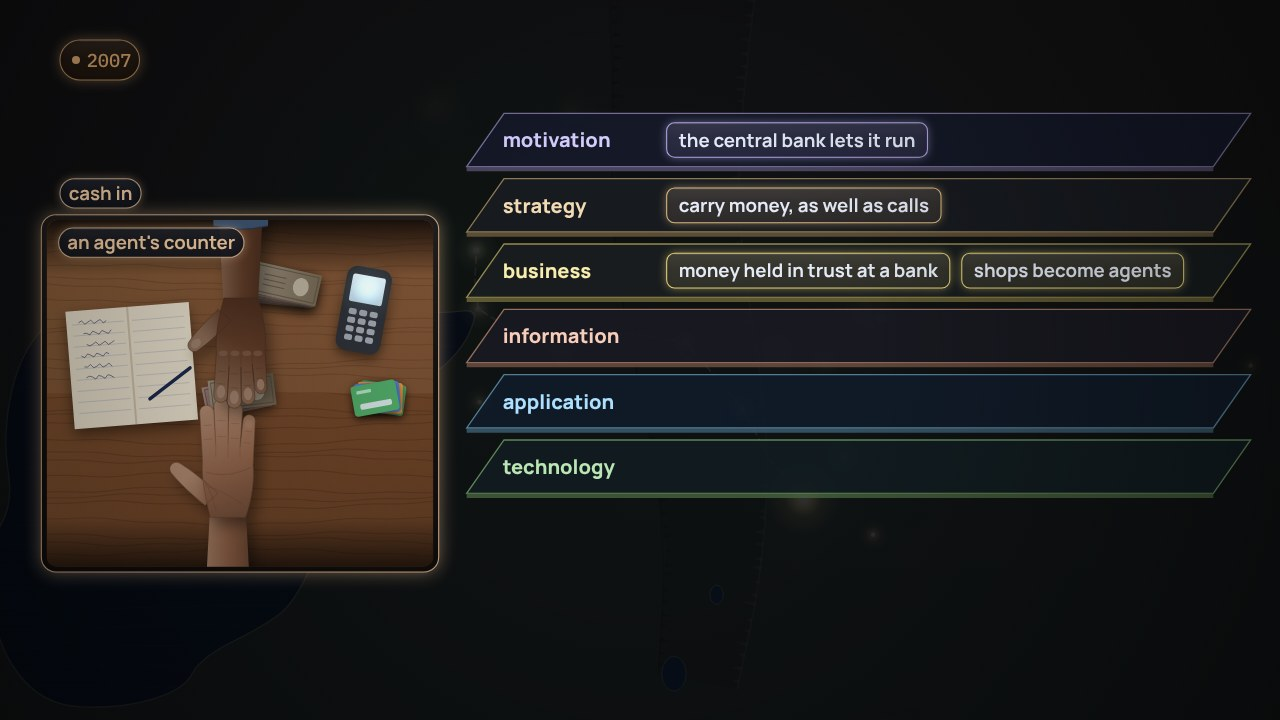
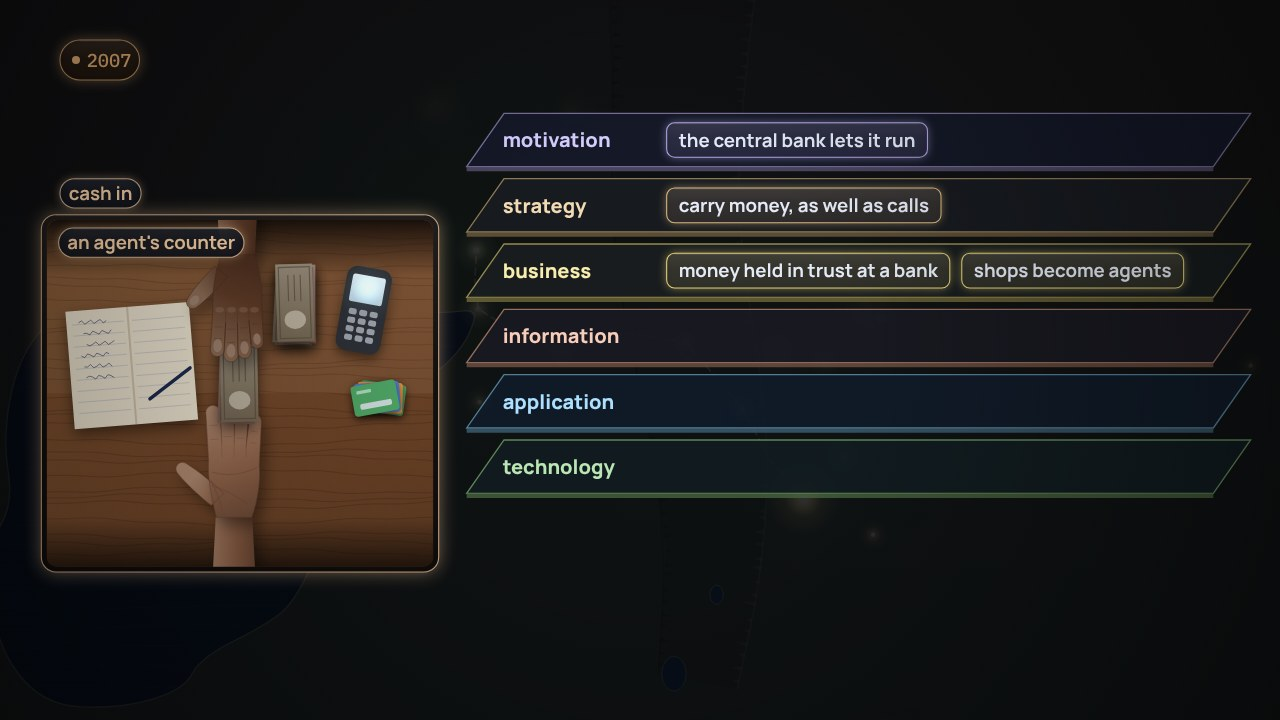
When strategy moves: the notes lie along the hands at the agent's counter
Rodrigo's review: the banknotes at the counter overlapped the hands
unnaturally. They lay across the hands, slid under an open palm and
stuck out on both sides of it. Now they lie along the hands: held out
on the customer's flat fingers, pinched under the agent's fingertips,
and let go over the open palm, whose fingers close over them. The two
hands meet at the notes, not on each other, and the notes change hands
only while both are still. The pile lies lengthways too, two notes
higher after cash in. The poster follows.

PLAYBOOK gains a lesson and a checklist item, and the proposal's
20 October row records the approval and the fix.

Claude-Session: https://claude.ai/code/session_01LTwRStgXVpZjzpS3UVc5Go

Changed region(s): [[0.125, 0.3667, 0.25, 0.7028], [0.1562, 0.7028, 0.2188, 0.7944], [0.1562, 0.3056, 0.2188, 0.3361]]

diff --git a/site/assets/when-strategy-moves/film.js b/site/assets/when-strategy-moves/film.js
@@ -2173,7 +2173,8 @@ function d10_phone(ctx,x,y,w,h,t,o){o=o||{};const a=o.a==null?1:o.a;if(a<=0.01)r
 // A hand, seen from above, its wrist at (0,0) and its fingers pointing up (−y), drawn as a living thing: a palm that widens to the
 // knuckles and four fingers held together in one outline (each with its own length and a rounded tip, a notch where they part), and
 // a thumb, lit from the upper left, with a soft shadow under it. side: 1 or −1 mirrors it (the thumb on the left, or the right);
-// o.palm: palm up, the lighter palm showing; o.curl (0..1) closes the fingers; o.sleeve: the cuff's colour
+// o.palm: palm up, the lighter palm showing; o.curl (0..1) closes the fingers; o.sleeve: the cuff's colour; o.over: only the
+// fingers, from where they bend, drawn again over what the hand holds as they close round it
 function d10_hand(ctx,x,y,an,s,skin,side,o){o=o||{};const a=o.a==null?1:o.a;if(a<=0.01)return;withA(ctx,a,()=>{ctx.save();ctx.translate(x,y);ctx.rotate(an);ctx.scale(s*side,s);
   const palm=!!o.palm,base=palm?mix(skin,[226,170,138],0.22):skin,skL=mix(base,[255,232,206],0.3),skD=mix(base,[24,12,8],0.32),curl=clamp(o.curl||0,0,1),K=-70;
   const lit=(x0,y0,x1,y1)=>{const g=ctx.createLinearGradient(x0,y0,x1,y1);g.addColorStop(0,rgba(skL,1));g.addColorStop(0.55,rgba(base,1));g.addColorStop(1,rgba(skD,1));return g;};
@@ -2188,26 +2189,29 @@ function d10_hand(ctx,x,y,an,s,skin,side,o){o=o||{};const a=o.a==null?1:o.a;if(a
     ctx.bezierCurveTo(9.5,-TL*0.8,11.5,-TL*0.4,10.5,8);ctx.closePath();ctx.restore();};
   // the forearm, and the cuff of a sleeve
   const arm=palm?mix(skin,[226,170,138],0.08):skin,aL=mix(arm,[255,232,206],0.26),aD=mix(arm,[24,12,8],0.32),ag=ctx.createLinearGradient(-30,0,30,0);ag.addColorStop(0,rgba(aL,1));ag.addColorStop(0.55,rgba(arm,1));ag.addColorStop(1,rgba(aD,1));
-  ctx.save();ctx.shadowColor="rgba(0,0,0,0.38)";ctx.shadowBlur=14;ctx.shadowOffsetX=6;ctx.shadowOffsetY=8;ctx.fillStyle=ag;ctx.beginPath();ctx.moveTo(-22,0);ctx.bezierCurveTo(-25,60,-29,120,-31,220);ctx.lineTo(31,220);ctx.bezierCurveTo(29,120,25,60,22,0);ctx.closePath();ctx.fill();ctx.restore();
-  if(o.sleeve){ctx.fillStyle=rgba(o.sleeve,1);ctx.beginPath();ctx.moveTo(-34,90);ctx.quadraticCurveTo(0,82,34,90);ctx.lineTo(40,230);ctx.lineTo(-40,230);ctx.closePath();ctx.fill();ctx.strokeStyle=rgba(mix(o.sleeve,[0,0,0],0.35),0.8);ctx.lineWidth=2;ctx.beginPath();ctx.moveTo(-34,90);ctx.quadraticCurveTo(0,82,34,90);ctx.stroke();}
+  if(o.over){ctx.save();shape();ctx.clip();const sg=ctx.createLinearGradient(0,K+5,0,K+19);sg.addColorStop(0,"rgba(20,10,6,0.4)");sg.addColorStop(1,"rgba(20,10,6,0)");ctx.fillStyle=sg;ctx.fillRect(-46,K+3,92,16);ctx.restore();
+    ctx.beginPath();ctx.moveTo(-46,K-100);ctx.lineTo(-46,K+4);ctx.lineTo(-31,K+4);F.forEach((f,i)=>ctx.quadraticCurveTo(f.bx,K+15,i<3?(f.bx+F[i+1].bx)/2:32,K+3));ctx.lineTo(46,K+4);ctx.lineTo(46,K-100);ctx.closePath();ctx.clip();}
+  else{ctx.save();ctx.shadowColor="rgba(0,0,0,0.38)";ctx.shadowBlur=14;ctx.shadowOffsetX=6;ctx.shadowOffsetY=8;ctx.fillStyle=ag;ctx.beginPath();ctx.moveTo(-22,0);ctx.bezierCurveTo(-25,60,-29,120,-31,220);ctx.lineTo(31,220);ctx.bezierCurveTo(29,120,25,60,22,0);ctx.closePath();ctx.fill();ctx.restore();}
+  if(o.sleeve&&!o.over){ctx.fillStyle=rgba(o.sleeve,1);ctx.beginPath();ctx.moveTo(-34,90);ctx.quadraticCurveTo(0,82,34,90);ctx.lineTo(40,230);ctx.lineTo(-40,230);ctx.closePath();ctx.fill();ctx.strokeStyle=rgba(mix(o.sleeve,[0,0,0],0.35),0.8);ctx.lineWidth=2;ctx.beginPath();ctx.moveTo(-34,90);ctx.quadraticCurveTo(0,82,34,90);ctx.stroke();}
   // the thumb under the hand's edge, then the hand, in one outline, with its shadow
-  ctx.save();ctx.shadowColor="rgba(0,0,0,0.38)";ctx.shadowBlur=14;ctx.shadowOffsetX=6;ctx.shadowOffsetY=8;ctx.fillStyle=lit(-36,-60,24,0);thumb();ctx.fill();ctx.fillStyle=lit(-34,K-60,34,0);shape();ctx.fill();ctx.restore();
-  thumb();ctx.strokeStyle=rgba(skD,0.5);ctx.lineWidth=1.2;ctx.stroke();shape();ctx.stroke();
+  ctx.save();if(!o.over){ctx.shadowColor="rgba(0,0,0,0.38)";ctx.shadowBlur=14;ctx.shadowOffsetX=6;ctx.shadowOffsetY=8;ctx.fillStyle=lit(-36,-60,24,0);thumb();ctx.fill();}ctx.fillStyle=lit(-34,K-60,34,0);shape();ctx.fill();ctx.restore();
+  ctx.strokeStyle=rgba(skD,0.5);ctx.lineWidth=1.2;if(!o.over){thumb();ctx.stroke();}shape();ctx.stroke();
   // where the fingers part, below the notches, and their joints
   ctx.strokeStyle=rgba(skD,0.32);ctx.lineWidth=1;for(let i=0;i<3;i++){const f=F[i],g=F[i+1],cx=(f.bx+g.bx)/2,cy=K-Math.min(f.l,g.l)*0.3;ctx.beginPath();ctx.moveTo(cx,cy);ctx.lineTo(cx,K-2);ctx.stroke();}
   F.forEach(f=>{[0.42,0.72].forEach(q=>{const jx=f.bx+f.d[0]*f.l*q,jy=K+f.d[1]*f.l*q;ctx.beginPath();ctx.moveTo(jx-f.n[0]*f.r*0.6,jy-f.n[1]*f.r*0.6);ctx.lineTo(jx+f.n[0]*f.r*0.6,jy+f.n[1]*f.r*0.6);ctx.stroke();});});
   // nails, or the pads of the fingertips; the thumb's too
   F.forEach(f=>{const ex=f.tx-f.d[0]*f.r*0.55,ey=f.ty-f.d[1]*f.r*0.55;ctx.fillStyle=rgba(mix(base,[255,236,220],palm?0.25:0.45),palm?0.4:0.7);ctx.beginPath();ctx.ellipse(ex,ey,f.r*0.62,f.r*(palm?0.7:0.95),f.ang,0,TAU);ctx.fill();});
-  if(!palm){ctx.save();ctx.translate(-25,-26);ctx.rotate(-0.9+curl*0.38);ctx.fillStyle=rgba(mix(base,[255,236,220],0.45),0.7);ctx.beginPath();ctx.ellipse(0,-50*(1-curl*0.22)+3,5.2,7,0,0,TAU);ctx.fill();ctx.restore();}
+  if(!palm&&!o.over){ctx.save();ctx.translate(-25,-26);ctx.rotate(-0.9+curl*0.38);ctx.fillStyle=rgba(mix(base,[255,236,220],0.45),0.7);ctx.beginPath();ctx.ellipse(0,-50*(1-curl*0.22)+3,5.2,7,0,0,TAU);ctx.fill();ctx.restore();}
   // the light: knuckles catching it, or the palm's creases
   if(palm){ctx.strokeStyle=rgba(skD,0.38);ctx.lineWidth=1.3;ctx.beginPath();ctx.moveTo(-26,-54);ctx.quadraticCurveTo(0,-46,28,-60);ctx.moveTo(-27,-38);ctx.quadraticCurveTo(-6,-32,16,-16);ctx.moveTo(-14,-8);ctx.quadraticCurveTo(-20,-30,-28,-44);ctx.stroke();}
   else{ctx.fillStyle=rgba(mix(base,[255,240,226],0.35),0.35);F.forEach(f=>{ctx.beginPath();ctx.ellipse(f.bx,K+1,5.5,3.5,0,0,TAU);ctx.fill();});}
   ctx.restore();});}
 // An agent's counter, from above, close up: a wooden counter, the agent's ledger (each customer signs for what they take), the
 // agent's phone, a pile of notes, and airtime cards, what the shop sold before it became an agent. The agent's hand rests at the top,
-// the customer's at the bottom. o.in (0..1): cash going into mobile money (the customer's notes go to the agent, and the agent's
-// phone lights as the money is sent); o.give (0..1): cash out (the agent takes notes from the pile and counts them into the
-// customer's palm, which closes round them and draws back); o.lab: the panel's name
+// the customer's at the bottom. o.in (0..1): cash going into mobile money (the customer holds two notes out, the agent takes them
+// by the far end and lays them on the pile, and the agent's phone lights as the money is sent); o.give (0..1): cash out (the
+// agent takes the two from the pile and lets them go over the customer's open palm, which closes round them and draws back);
+// o.lab: the panel's name
 function d10_counter(ctx,x,y,w,h,t,o){o=o||{};const a=o.a==null?1:o.a;if(a<=0.01)return;withA(ctx,a,()=>{glass(ctx,x-8,y-8,w+16,h+16,22,[255,206,160],{glow:18,ea:0.75,fill:"rgba(12,10,8,0.95)"});
   ctx.save();rr(ctx,x,y,w,h,16);ctx.clip();ctx.translate(x,y);
   // the counter's top: warm, worn wood, with its grain, lit from the shop's door
@@ -2225,28 +2229,45 @@ function d10_counter(ctx,x,y,w,h,t,o){o=o||{};const a=o.a==null?1:o.a;if(a<=0.01
   // airtime cards, fanned, in three colours, each with its silver strip to scratch
   [[0.13,[76,160,98]],[0.03,[232,146,64]],[-0.08,[74,124,204]],[-0.18,[76,160,98]]].forEach(([r,col],k)=>{ctx.save();ctx.translate(w*0.86,h*0.58);ctx.rotate(r);ctx.shadowColor="rgba(0,0,0,0.4)";ctx.shadowBlur=8;ctx.shadowOffsetY=3;
     ctx.fillStyle=rgba(col,1);rr(ctx,-34,-58,68,46,5);ctx.fill();ctx.shadowBlur=0;ctx.shadowOffsetY=0;ctx.fillStyle="rgba(214,218,226,0.9)";rr(ctx,-24,-30,48,9,3);ctx.fill();ctx.fillStyle="rgba(255,255,255,0.5)";ctx.fillRect(-26,-50,22,5);ctx.restore();});
-  // the agent's phone, and the pile of notes beside it
+  // the agent's phone
   ctx.save();ctx.translate(w*0.82,h*0.26);ctx.rotate(0.18);ctx.shadowColor="rgba(0,0,0,0.5)";ctx.shadowBlur=12;ctx.shadowOffsetY=5;ctx.fillStyle="#2c3036";rr(ctx,-34,-64,68,128,16);ctx.fill();ctx.shadowBlur=0;ctx.shadowOffsetY=0;
   g=ctx.createLinearGradient(0,-50,0,-6);g.addColorStop(0,"#d6e6ee");g.addColorStop(1,"#a9c4d2");ctx.fillStyle=g;rr(ctx,-25,-52,50,42,4);ctx.fill();glow(ctx,0,-31,46,[200,236,255],0.2+0.45*(o.lit||0));
   ctx.fillStyle="#9aa0a8";for(let r=0;r<4;r++)for(let c=0;c<3;c++){rr(ctx,-22+c*16,0+r*13,12,9,3);ctx.fill();}ctx.restore();
-  const PILE=[w*0.6,h*0.2];for(let k=0;k<5;k++)d10_note(ctx,PILE[0]+k*3,PILE[1]-k*2,0.1+k*0.03,w*0.17,k%2?[150,112,104]:[132,118,96],1);
-  // the hands: where each rests, where they meet, and where the agent's goes for the notes
-  const gv=clamp(o.give||0,0,1),cin=clamp(o.in||0,0,1),sk1=o.skinA||[96,60,40],sk2=o.skinB||[124,82,58],L=(A,B,u)=>[lerp(A[0],B[0],u),lerp(A[1],B[1],u)];
-  const AR=[w*0.5,h*0.12],AP=[PILE[0]+6,PILE[1]+10],AX=[w*0.5,h*0.46],CR=[w*0.46,h*1.0],CX=[w*0.47,h*0.66],CW=[w*0.44,h*0.86];
-  let ah=AR,ch=CR,cc=0.12,ac=0.3,nt=null,under=false;
-  if(cin>0&&cin<1){ch=cin<0.45?L(CR,CX,sstep(0,0.3,cin)):L(CX,CR,sstep(0.45,0.75,cin));ah=cin<0.5?L(AR,AX,sstep(0.22,0.42,cin)):cin<0.76?L(AX,AP,sstep(0.5,0.72,cin)):L(AP,AR,sstep(0.78,1,cin));
-    nt=cin<0.44?[ch[0],ch[1]-8]:cin<0.74?[ah[0]-6,ah[1]+28]:[AP[0]-4,AP[1]+4];under=cin>=0.44&&cin<0.74;}
-  if(gv>0){ah=gv<0.2?L(AR,AP,sstep(0,0.18,gv)):gv<0.55?L(AP,AX,sstep(0.2,0.42,gv)):L(AX,AR,sstep(0.58,0.85,gv));ch=gv<0.64?L(CR,CX,sstep(0.22,0.44,gv)):L(CX,CW,sstep(0.66,0.95,gv));cc=0.12+0.66*sstep(0.5,0.62,gv);
-    nt=gv<0.18?null:gv<0.5?[ah[0]-6,ah[1]+28]:[ch[0],ch[1]-8];under=gv<0.5||cc>0.5;}
-  const notes=()=>{if(!nt)return;d10_note(ctx,nt[0],nt[1],-0.2,w*0.17,[150,112,104],1);d10_note(ctx,nt[0]+8,nt[1]-6,-0.12,w*0.17,[132,118,96],1);};
-  const sway=Math.sin(t*1.4)*2;
-  // the customer's hand, palm up from the bottom; the agent's, from the top, fingers down
-  if(under&&nt&&nt[1]>h*0.5)notes();
-  d10_hand(ctx,ch[0],ch[1]+80+sway,0,1.25,sk2,1,{palm:true,curl:cc,sleeve:o.sleeveB||[150,64,72]});
-  if(!under&&nt&&nt[1]>h*0.5)notes();
-  if(under&&nt&&nt[1]<=h*0.5)notes();
-  d10_hand(ctx,ah[0],ah[1]-120-sway,Math.PI,1.2,sk1,-1,{curl:ac,sleeve:o.sleeveA||[64,86,116]});
-  if(!under&&nt&&nt[1]<=h*0.5)notes();
+  // the pile of notes beside it, lengthways to the agent, the way hands pass them: two more on top once cash has come in, and gone
+  // again when it goes out
+  const NS=w*0.2,NC=[[132,118,96],[150,112,104]],PILE=[w*0.64,h*0.25],SLOT=[[0,0,0.02],[3,-2,-0.04],[-2,-3,0.05],[4,-5,0],[1,-6,-0.03],[3,-8,0.03],[6,-11,-0.02]];
+  const gv=clamp(o.give||0,0,1),cin=clamp(o.in||0,0,1),pn=cin>=0.78&&gv<0.2?7:5;
+  for(let k=0;k<pn;k++)d10_note(ctx,PILE[0]+SLOT[k][0],PILE[1]+SLOT[k][1],Math.PI/2+SLOT[k][2],NS,NC[k%2],1);
+  // the hands. Notes in a hand lie along it: on an open palm, on top of it; in a hand seen from its back, pinched under the
+  // fingertips and reaching out beyond them; and fingers that close go over them. aR: how far the agent's middle fingertip reaches
+  // from its wrist at a curl; held: the centre of the two notes the agent pinches, from its wrist; grip: the agent's wrist that
+  // pinches two notes centred at c
+  const sk1=o.skinA||[96,60,40],sk2=o.skinB||[124,82,58],L=(A,B,u)=>[lerp(A[0],B[0],u),lerp(A[1],B[1],u)],P=(A,d)=>[A[0]+d[0],A[1]+d[1]];
+  const aR=c=>1.2*(78.6+68*(1-0.45*c)+0.86*c),GR=0.42,held=(W,c)=>[W[0],W[1]+aR(c)+NS*0.3],grip=c=>[c[0],c[1]-aR(GR)-NS*0.3];
+  // the wrists: at rest, and the agent's pinching the pile's top two; cash in, the notes held out on flat fingers, beyond their
+  // tips, for the agent to pinch the far end; cash out, the agent's fingertips at the customer's, and the notes, let go, settling
+  // into the open palm; then the customer's hand drawn back
+  const ARW=[w*0.5,h*0.12-120],CRW=[w*0.46,h+80],APW=grip(P(PILE,SLOT[5])),OFF=[3,-187.5],CIW=[w*0.486,h*0.84],AIW=grip(P(CIW,OFF)),
+    PALM=[0,-68],COW=[w*0.486,h*0.854],AOW=[COW[0]+2,COW[1]-160-aR(GR)],CBW=[w*0.44,h*0.86+80];
+  let aW=ARW,cW=CRW,ac=0.3,cc=0.12,np=null;
+  if(gv>0){aW=gv<0.2?L(ARW,APW,sstep(0,0.16,gv)):gv<0.52?L(APW,AOW,sstep(0.21,0.42,gv)):L(AOW,ARW,sstep(0.52,0.8,gv));
+    ac=gv<0.2?lerp(0.3,GR,sstep(0.12,0.2,gv)):lerp(GR,0.25,sstep(0.44,0.5,gv))+0.05*sstep(0.6,0.8,gv);
+    cW=gv<0.6?L(CRW,COW,sstep(0.22,0.42,gv)):L(COW,CBW,sstep(0.66,0.95,gv));cc=0.12+0.66*sstep(0.5,0.62,gv);}
+  else{cW=cin<0.47?L(CRW,CIW,sstep(0,0.3,cin)):L(CIW,CRW,sstep(0.48,0.74,cin));
+    aW=cin<0.47?L(ARW,AIW,sstep(0.14,0.44,cin)):cin<0.79?L(AIW,APW,sstep(0.5,0.76,cin)):L(APW,ARW,sstep(0.82,1,cin));
+    ac=cin<0.47?lerp(0.3,GR,sstep(0.38,0.46,cin)):lerp(GR,0.25,sstep(0.78,0.84,cin))+0.05*sstep(0.86,1,cin);}
+  // a slight sway while the hands wait, still while they pass the notes
+  const act=Math.max(sstep(0,0.08,cin)*(1-sstep(0.92,1,cin)),sstep(0,0.06,gv)*(1-sstep(0.94,1,gv))),SW=[0,Math.sin(t*1.4)*2*(1-act)];aW=P(aW,SW);cW=P(cW,SW);
+  if(gv>0)np=gv<0.2?null:gv<0.44?held(aW,ac):gv<0.5?L(held(AOW,GR),P(cW,PALM),1-Math.pow(1-(gv-0.44)/0.06,3)):P(cW,PALM);
+  else np=cin<0.46?P(cW,OFF):cin<0.78?held(aW,ac):null;
+  const notes=c=>[0,1].forEach(k=>{const q=SLOT[5+k];d10_note(ctx,c[0]+q[0]-SLOT[5][0],c[1]+q[1]-SLOT[5][1],Math.PI/2+q[2],NS,NC[(5+k)%2],1);});
+  // the customer's hand, palm up from the bottom; the notes; its fingers again as they close round them; the agent's, from the
+  // top, fingers down
+  const CH={palm:true,curl:cc,sleeve:o.sleeveB||[150,64,72]};
+  d10_hand(ctx,cW[0],cW[1],0,1.25,sk2,1,CH);
+  if(np)notes(np);
+  if(np&&cc>0.2)d10_hand(ctx,cW[0],cW[1],0,1.25,sk2,1,{...CH,over:true,a:sstep(0.2,0.5,cc)});
+  d10_hand(ctx,aW[0],aW[1],Math.PI,1.2,sk1,-1,{curl:ac,sleeve:o.sleeveA||[64,86,116]});
   ctx.restore();
   if(o.lab)tag(ctx,x+18,y+34,o.lab,[255,214,170],{size:28});});}
 

diff --git a/films/enterprise-architecture/10-when-strategy-moves/source/src/plan.js b/films/enterprise-architecture/10-when-strategy-moves/source/src/plan.js
@@ -197,7 +197,8 @@ function d10_phone(ctx,x,y,w,h,t,o){o=o||{};const a=o.a==null?1:o.a;if(a<=0.01)r
 // A hand, seen from above, its wrist at (0,0) and its fingers pointing up (−y), drawn as a living thing: a palm that widens to the
 // knuckles and four fingers held together in one outline (each with its own length and a rounded tip, a notch where they part), and
 // a thumb, lit from the upper left, with a soft shadow under it. side: 1 or −1 mirrors it (the thumb on the left, or the right);
-// o.palm: palm up, the lighter palm showing; o.curl (0..1) closes the fingers; o.sleeve: the cuff's colour
+// o.palm: palm up, the lighter palm showing; o.curl (0..1) closes the fingers; o.sleeve: the cuff's colour; o.over: only the
+// fingers, from where they bend, drawn again over what the hand holds as they close round it
 function d10_hand(ctx,x,y,an,s,skin,side,o){o=o||{};const a=o.a==null?1:o.a;if(a<=0.01)return;withA(ctx,a,()=>{ctx.save();ctx.translate(x,y);ctx.rotate(an);ctx.scale(s*side,s);
   const palm=!!o.palm,base=palm?mix(skin,[226,170,138],0.22):skin,skL=mix(base,[255,232,206],0.3),skD=mix(base,[24,12,8],0.32),curl=clamp(o.curl||0,0,1),K=-70;
   const lit=(x0,y0,x1,y1)=>{const g=ctx.createLinearGradient(x0,y0,x1,y1);g.addColorStop(0,rgba(skL,1));g.addColorStop(0.55,rgba(base,1));g.addColorStop(1,rgba(skD,1));return g;};
@@ -212,26 +213,29 @@ function d10_hand(ctx,x,y,an,s,skin,side,o){o=o||{};const a=o.a==null?1:o.a;if(a
     ctx.bezierCurveTo(9.5,-TL*0.8,11.5,-TL*0.4,10.5,8);ctx.closePath();ctx.restore();};
   // the forearm, and the cuff of a sleeve
   const arm=palm?mix(skin,[226,170,138],0.08):skin,aL=mix(arm,[255,232,206],0.26),aD=mix(arm,[24,12,8],0.32),ag=ctx.createLinearGradient(-30,0,30,0);ag.addColorStop(0,rgba(aL,1));ag.addColorStop(0.55,rgba(arm,1));ag.addColorStop(1,rgba(aD,1));
-  ctx.save();ctx.shadowColor="rgba(0,0,0,0.38)";ctx.shadowBlur=14;ctx.shadowOffsetX=6;ctx.shadowOffsetY=8;ctx.fillStyle=ag;ctx.beginPath();ctx.moveTo(-22,0);ctx.bezierCurveTo(-25,60,-29,120,-31,220);ctx.lineTo(31,220);ctx.bezierCurveTo(29,120,25,60,22,0);ctx.closePath();ctx.fill();ctx.restore();
-  if(o.sleeve){ctx.fillStyle=rgba(o.sleeve,1);ctx.beginPath();ctx.moveTo(-34,90);ctx.quadraticCurveTo(0,82,34,90);ctx.lineTo(40,230);ctx.lineTo(-40,230);ctx.closePath();ctx.fill();ctx.strokeStyle=rgba(mix(o.sleeve,[0,0,0],0.35),0.8);ctx.lineWidth=2;ctx.beginPath();ctx.moveTo(-34,90);ctx.quadraticCurveTo(0,82,34,90);ctx.stroke();}
+  if(o.over){ctx.save();shape();ctx.clip();const sg=ctx.createLinearGradient(0,K+5,0,K+19);sg.addColorStop(0,"rgba(20,10,6,0.4)");sg.addColorStop(1,"rgba(20,10,6,0)");ctx.fillStyle=sg;ctx.fillRect(-46,K+3,92,16);ctx.restore();
+    ctx.beginPath();ctx.moveTo(-46,K-100);ctx.lineTo(-46,K+4);ctx.lineTo(-31,K+4);F.forEach((f,i)=>ctx.quadraticCurveTo(f.bx,K+15,i<3?(f.bx+F[i+1].bx)/2:32,K+3));ctx.lineTo(46,K+4);ctx.lineTo(46,K-100);ctx.closePath();ctx.clip();}
+  else{ctx.save();ctx.shadowColor="rgba(0,0,0,0.38)";ctx.shadowBlur=14;ctx.shadowOffsetX=6;ctx.shadowOffsetY=8;ctx.fillStyle=ag;ctx.beginPath();ctx.moveTo(-22,0);ctx.bezierCurveTo(-25,60,-29,120,-31,220);ctx.lineTo(31,220);ctx.bezierCurveTo(29,120,25,60,22,0);ctx.closePath();ctx.fill();ctx.restore();}
+  if(o.sleeve&&!o.over){ctx.fillStyle=rgba(o.sleeve,1);ctx.beginPath();ctx.moveTo(-34,90);ctx.quadraticCurveTo(0,82,34,90);ctx.lineTo(40,230);ctx.lineTo(-40,230);ctx.closePath();ctx.fill();ctx.strokeStyle=rgba(mix(o.sleeve,[0,0,0],0.35),0.8);ctx.lineWidth=2;ctx.beginPath();ctx.moveTo(-34,90);ctx.quadraticCurveTo(0,82,34,90);ctx.stroke();}
   // the thumb under the hand's edge, then the hand, in one outline, with its shadow
-  ctx.save();ctx.shadowColor="rgba(0,0,0,0.38)";ctx.shadowBlur=14;ctx.shadowOffsetX=6;ctx.shadowOffsetY=8;ctx.fillStyle=lit(-36,-60,24,0);thumb();ctx.fill();ctx.fillStyle=lit(-34,K-60,34,0);shape();ctx.fill();ctx.restore();
-  thumb();ctx.strokeStyle=rgba(skD,0.5);ctx.lineWidth=1.2;ctx.stroke();shape();ctx.stroke();
+  ctx.save();if(!o.over){ctx.shadowColor="rgba(0,0,0,0.38)";ctx.shadowBlur=14;ctx.shadowOffsetX=6;ctx.shadowOffsetY=8;ctx.fillStyle=lit(-36,-60,24,0);thumb();ctx.fill();}ctx.fillStyle=lit(-34,K-60,34,0);shape();ctx.fill();ctx.restore();
+  ctx.strokeStyle=rgba(skD,0.5);ctx.lineWidth=1.2;if(!o.over){thumb();ctx.stroke();}shape();ctx.stroke();
   // where the fingers part, below the notches, and their joints
   ctx.strokeStyle=rgba(skD,0.32);ctx.lineWidth=1;for(let i=0;i<3;i++){const f=F[i],g=F[i+1],cx=(f.bx+g.bx)/2,cy=K-Math.min(f.l,g.l)*0.3;ctx.beginPath();ctx.moveTo(cx,cy);ctx.lineTo(cx,K-2);ctx.stroke();}
   F.forEach(f=>{[0.42,0.72].forEach(q=>{const jx=f.bx+f.d[0]*f.l*q,jy=K+f.d[1]*f.l*q;ctx.beginPath();ctx.moveTo(jx-f.n[0]*f.r*0.6,jy-f.n[1]*f.r*0.6);ctx.lineTo(jx+f.n[0]*f.r*0.6,jy+f.n[1]*f.r*0.6);ctx.stroke();});});
   // nails, or the pads of the fingertips; the thumb's too
   F.forEach(f=>{const ex=f.tx-f.d[0]*f.r*0.55,ey=f.ty-f.d[1]*f.r*0.55;ctx.fillStyle=rgba(mix(base,[255,236,220],palm?0.25:0.45),palm?0.4:0.7);ctx.beginPath();ctx.ellipse(ex,ey,f.r*0.62,f.r*(palm?0.7:0.95),f.ang,0,TAU);ctx.fill();});
-  if(!palm){ctx.save();ctx.translate(-25,-26);ctx.rotate(-0.9+curl*0.38);ctx.fillStyle=rgba(mix(base,[255,236,220],0.45),0.7);ctx.beginPath();ctx.ellipse(0,-50*(1-curl*0.22)+3,5.2,7,0,0,TAU);ctx.fill();ctx.restore();}
+  if(!palm&&!o.over){ctx.save();ctx.translate(-25,-26);ctx.rotate(-0.9+curl*0.38);ctx.fillStyle=rgba(mix(base,[255,236,220],0.45),0.7);ctx.beginPath();ctx.ellipse(0,-50*(1-curl*0.22)+3,5.2,7,0,0,TAU);ctx.fill();ctx.restore();}
   // the light: knuckles catching it, or the palm's creases
   if(palm){ctx.strokeStyle=rgba(skD,0.38);ctx.lineWidth=1.3;ctx.beginPath();ctx.moveTo(-26,-54);ctx.quadraticCurveTo(0,-46,28,-60);ctx.moveTo(-27,-38);ctx.quadraticCurveTo(-6,-32,16,-16);ctx.moveTo(-14,-8);ctx.quadraticCurveTo(-20,-30,-28,-44);ctx.stroke();}
   else{ctx.fillStyle=rgba(mix(base,[255,240,226],0.35),0.35);F.forEach(f=>{ctx.beginPath();ctx.ellipse(f.bx,K+1,5.5,3.5,0,0,TAU);ctx.fill();});}
   ctx.restore();});}
 // An agent's counter, from above, close up: a wooden counter, the agent's ledger (each customer signs for what they take), the
 // agent's phone, a pile of notes, and airtime cards, what the shop sold before it became an agent. The agent's hand rests at the top,
-// the customer's at the bottom. o.in (0..1): cash going into mobile money (the customer's notes go to the agent, and the agent's
-// phone lights as the money is sent); o.give (0..1): cash out (the agent takes notes from the pile and counts them into the
-// customer's palm, which closes round them and draws back); o.lab: the panel's name
+// the customer's at the bottom. o.in (0..1): cash going into mobile money (the customer holds two notes out, the agent takes them
+// by the far end and lays them on the pile, and the agent's phone lights as the money is sent); o.give (0..1): cash out (the
+// agent takes the two from the pile and lets them go over the customer's open palm, which closes round them and draws back);
+// o.lab: the panel's name
 function d10_counter(ctx,x,y,w,h,t,o){o=o||{};const a=o.a==null?1:o.a;if(a<=0.01)return;withA(ctx,a,()=>{glass(ctx,x-8,y-8,w+16,h+16,22,[255,206,160],{glow:18,ea:0.75,fill:"rgba(12,10,8,0.95)"});
   ctx.save();rr(ctx,x,y,w,h,16);ctx.clip();ctx.translate(x,y);
   // the counter's top: warm, worn wood, with its grain, lit from the shop's door
@@ -249,28 +253,45 @@ function d10_counter(ctx,x,y,w,h,t,o){o=o||{};const a=o.a==null?1:o.a;if(a<=0.01
   // airtime cards, fanned, in three colours, each with its silver strip to scratch
   [[0.13,[76,160,98]],[0.03,[232,146,64]],[-0.08,[74,124,204]],[-0.18,[76,160,98]]].forEach(([r,col],k)=>{ctx.save();ctx.translate(w*0.86,h*0.58);ctx.rotate(r);ctx.shadowColor="rgba(0,0,0,0.4)";ctx.shadowBlur=8;ctx.shadowOffsetY=3;
     ctx.fillStyle=rgba(col,1);rr(ctx,-34,-58,68,46,5);ctx.fill();ctx.shadowBlur=0;ctx.shadowOffsetY=0;ctx.fillStyle="rgba(214,218,226,0.9)";rr(ctx,-24,-30,48,9,3);ctx.fill();ctx.fillStyle="rgba(255,255,255,0.5)";ctx.fillRect(-26,-50,22,5);ctx.restore();});
-  // the agent's phone, and the pile of notes beside it
+  // the agent's phone
   ctx.save();ctx.translate(w*0.82,h*0.26);ctx.rotate(0.18);ctx.shadowColor="rgba(0,0,0,0.5)";ctx.shadowBlur=12;ctx.shadowOffsetY=5;ctx.fillStyle="#2c3036";rr(ctx,-34,-64,68,128,16);ctx.fill();ctx.shadowBlur=0;ctx.shadowOffsetY=0;
   g=ctx.createLinearGradient(0,-50,0,-6);g.addColorStop(0,"#d6e6ee");g.addColorStop(1,"#a9c4d2");ctx.fillStyle=g;rr(ctx,-25,-52,50,42,4);ctx.fill();glow(ctx,0,-31,46,[200,236,255],0.2+0.45*(o.lit||0));
   ctx.fillStyle="#9aa0a8";for(let r=0;r<4;r++)for(let c=0;c<3;c++){rr(ctx,-22+c*16,0+r*13,12,9,3);ctx.fill();}ctx.restore();
-  const PILE=[w*0.6,h*0.2];for(let k=0;k<5;k++)d10_note(ctx,PILE[0]+k*3,PILE[1]-k*2,0.1+k*0.03,w*0.17,k%2?[150,112,104]:[132,118,96],1);
-  // the hands: where each rests, where they meet, and where the agent's goes for the notes
-  const gv=clamp(o.give||0,0,1),cin=clamp(o.in||0,0,1),sk1=o.skinA||[96,60,40],sk2=o.skinB||[124,82,58],L=(A,B,u)=>[lerp(A[0],B[0],u),lerp(A[1],B[1],u)];
-  const AR=[w*0.5,h*0.12],AP=[PILE[0]+6,PILE[1]+10],AX=[w*0.5,h*0.46],CR=[w*0.46,h*1.0],CX=[w*0.47,h*0.66],CW=[w*0.44,h*0.86];
-  let ah=AR,ch=CR,cc=0.12,ac=0.3,nt=null,under=false;
-  if(cin>0&&cin<1){ch=cin<0.45?L(CR,CX,sstep(0,0.3,cin)):L(CX,CR,sstep(0.45,0.75,cin));ah=cin<0.5?L(AR,AX,sstep(0.22,0.42,cin)):cin<0.76?L(AX,AP,sstep(0.5,0.72,cin)):L(AP,AR,sstep(0.78,1,cin));
-    nt=cin<0.44?[ch[0],ch[1]-8]:cin<0.74?[ah[0]-6,ah[1]+28]:[AP[0]-4,AP[1]+4];under=cin>=0.44&&cin<0.74;}
-  if(gv>0){ah=gv<0.2?L(AR,AP,sstep(0,0.18,gv)):gv<0.55?L(AP,AX,sstep(0.2,0.42,gv)):L(AX,AR,sstep(0.58,0.85,gv));ch=gv<0.64?L(CR,CX,sstep(0.22,0.44,gv)):L(CX,CW,sstep(0.66,0.95,gv));cc=0.12+0.66*sstep(0.5,0.62,gv);
-    nt=gv<0.18?null:gv<0.5?[ah[0]-6,ah[1]+28]:[ch[0],ch[1]-8];under=gv<0.5||cc>0.5;}
-  const notes=()=>{if(!nt)return;d10_note(ctx,nt[0],nt[1],-0.2,w*0.17,[150,112,104],1);d10_note(ctx,nt[0]+8,nt[1]-6,-0.12,w*0.17,[132,118,96],1);};
-  const sway=Math.sin(t*1.4)*2;
-  // the customer's hand, palm up from the bottom; the agent's, from the top, fingers down
-  if(under&&nt&&nt[1]>h*0.5)notes();
-  d10_hand(ctx,ch[0],ch[1]+80+sway,0,1.25,sk2,1,{palm:true,curl:cc,sleeve:o.sleeveB||[150,64,72]});
-  if(!under&&nt&&nt[1]>h*0.5)notes();
-  if(under&&nt&&nt[1]<=h*0.5)notes();
-  d10_hand(ctx,ah[0],ah[1]-120-sway,Math.PI,1.2,sk1,-1,{curl:ac,sleeve:o.sleeveA||[64,86,116]});
-  if(!under&&nt&&nt[1]<=h*0.5)notes();
+  // the pile of notes beside it, lengthways to the agent, the way hands pass them: two more on top once cash has come in, and gone
+  // again when it goes out
+  const NS=w*0.2,NC=[[132,118,96],[150,112,104]],PILE=[w*0.64,h*0.25],SLOT=[[0,0,0.02],[3,-2,-0.04],[-2,-3,0.05],[4,-5,0],[1,-6,-0.03],[3,-8,0.03],[6,-11,-0.02]];
+  const gv=clamp(o.give||0,0,1),cin=clamp(o.in||0,0,1),pn=cin>=0.78&&gv<0.2?7:5;
+  for(let k=0;k<pn;k++)d10_note(ctx,PILE[0]+SLOT[k][0],PILE[1]+SLOT[k][1],Math.PI/2+SLOT[k][2],NS,NC[k%2],1);
+  // the hands. Notes in a hand lie along it: on an open palm, on top of it; in a hand seen from its back, pinched under the
+  // fingertips and reaching out beyond them; and fingers that close go over them. aR: how far the agent's middle fingertip reaches
+  // from its wrist at a curl; held: the centre of the two notes the agent pinches, from its wrist; grip: the agent's wrist that
+  // pinches two notes centred at c
+  const sk1=o.skinA||[96,60,40],sk2=o.skinB||[124,82,58],L=(A,B,u)=>[lerp(A[0],B[0],u),lerp(A[1],B[1],u)],P=(A,d)=>[A[0]+d[0],A[1]+d[1]];
+  const aR=c=>1.2*(78.6+68*(1-0.45*c)+0.86*c),GR=0.42,held=(W,c)=>[W[0],W[1]+aR(c)+NS*0.3],grip=c=>[c[0],c[1]-aR(GR)-NS*0.3];
+  // the wrists: at rest, and the agent's pinching the pile's top two; cash in, the notes held out on flat fingers, beyond their
+  // tips, for the agent to pinch the far end; cash out, the agent's fingertips at the customer's, and the notes, let go, settling
+  // into the open palm; then the customer's hand drawn back
+  const ARW=[w*0.5,h*0.12-120],CRW=[w*0.46,h+80],APW=grip(P(PILE,SLOT[5])),OFF=[3,-187.5],CIW=[w*0.486,h*0.84],AIW=grip(P(CIW,OFF)),
+    PALM=[0,-68],COW=[w*0.486,h*0.854],AOW=[COW[0]+2,COW[1]-160-aR(GR)],CBW=[w*0.44,h*0.86+80];
+  let aW=ARW,cW=CRW,ac=0.3,cc=0.12,np=null;
+  if(gv>0){aW=gv<0.2?L(ARW,APW,sstep(0,0.16,gv)):gv<0.52?L(APW,AOW,sstep(0.21,0.42,gv)):L(AOW,ARW,sstep(0.52,0.8,gv));
+    ac=gv<0.2?lerp(0.3,GR,sstep(0.12,0.2,gv)):lerp(GR,0.25,sstep(0.44,0.5,gv))+0.05*sstep(0.6,0.8,gv);
+    cW=gv<0.6?L(CRW,COW,sstep(0.22,0.42,gv)):L(COW,CBW,sstep(0.66,0.95,gv));cc=0.12+0.66*sstep(0.5,0.62,gv);}
+  else{cW=cin<0.47?L(CRW,CIW,sstep(0,0.3,cin)):L(CIW,CRW,sstep(0.48,0.74,cin));
+    aW=cin<0.47?L(ARW,AIW,sstep(0.14,0.44,cin)):cin<0.79?L(AIW,APW,sstep(0.5,0.76,cin)):L(APW,ARW,sstep(0.82,1,cin));
+    ac=cin<0.47?lerp(0.3,GR,sstep(0.38,0.46,cin)):lerp(GR,0.25,sstep(0.78,0.84,cin))+0.05*sstep(0.86,1,cin);}
+  // a slight sway while the hands wait, still while they pass the notes
+  const act=Math.max(sstep(0,0.08,cin)*(1-sstep(0.92,1,cin)),sstep(0,0.06,gv)*(1-sstep(0.94,1,gv))),SW=[0,Math.sin(t*1.4)*2*(1-act)];aW=P(aW,SW);cW=P(cW,SW);
+  if(gv>0)np=gv<0.2?null:gv<0.44?held(aW,ac):gv<0.5?L(held(AOW,GR),P(cW,PALM),1-Math.pow(1-(gv-0.44)/0.06,3)):P(cW,PALM);
+  else np=cin<0.46?P(cW,OFF):cin<0.78?held(aW,ac):null;
+  const notes=c=>[0,1].forEach(k=>{const q=SLOT[5+k];d10_note(ctx,c[0]+q[0]-SLOT[5][0],c[1]+q[1]-SLOT[5][1],Math.PI/2+q[2],NS,NC[(5+k)%2],1);});
+  // the customer's hand, palm up from the bottom; the notes; its fingers again as they close round them; the agent's, from the
+  // top, fingers down
+  const CH={palm:true,curl:cc,sleeve:o.sleeveB||[150,64,72]};
+  d10_hand(ctx,cW[0],cW[1],0,1.25,sk2,1,CH);
+  if(np)notes(np);
+  if(np&&cc>0.2)d10_hand(ctx,cW[0],cW[1],0,1.25,sk2,1,{...CH,over:true,a:sstep(0.2,0.5,cc)});
+  d10_hand(ctx,aW[0],aW[1],Math.PI,1.2,sk1,-1,{curl:ac,sleeve:o.sleeveA||[64,86,116]});
   ctx.restore();
   if(o.lab)tag(ctx,x+18,y+34,o.lab,[255,214,170],{size:28});});}
 

diff --git a/films/enterprise-architecture/proposal.md b/films/enterprise-architecture/proposal.md
@@ -34,7 +34,7 @@
 | 17 October 2026 | The labs' and scenarios' Spanish follows the films' Spanish captions (capacidad, flujo de valor, impulsor, punto de conexión, electrodependiente, cuadrilla, comercialización, el borde, el muro), and the map's ids stay as they are, like code. Their pictures are laid out from the measured words in each language, and the series-learn check fails if a picture cuts a word short. |
 | 17 October 2026 | *When strategy moves*, as made. Its pilot line follows Hughes and Lonie (2007): M-Pesa began as a pilot for repaying small loans, people used it to send money to others, and sending money home became the plan. The new step goes into billing, the business process ("a new step in billing"), not into *meter to cash*, a value stream, whose parts are stages. The new rules are RUL-023 to RUL-025, and the decision is record 12, "the social tariff stays with retail". IT owns the secure exchange; Ama owns the agreement, and the agency is its other party. The old version of the contract gets its own `deprecation_date`. The sound: a felt piano over pizzicato strings and soft pads in F-sharp minor for Kenya, then the series' palette in A major, and the ripple, one soft felt-piano note for each layer the change reaches. |
 | 18 October 2026 | The labs of films 9 to 11 follow the films as built, with their names, numbers and IDs; film 11's lab gets the chapter `text`, *From slides to text*, when the film is on the site. Its map is CAP-004, CAP-009, RUL-021, RUL-022, MSR-002 and MSR-004, a measure of *When strategy moves*' outcome, eligible households on the tariff, still a draft. Generating power, CAP-009, still has no owner, so the lab leaves it flagged after the fixes: a check is never passed with a guess. *Who does it, and where meaning changes* drew the outage agent as an actor, in version 3.2; film 11 draws both agents as version 4 does, as software assigned to a role (APP-015, and APP-030 in ROL-009, map drafter), and *Redraw it in ArchiMate 4* and scenario 112 teach that change. In Spanish, an agent's rights are its atribuciones, as in the films' captions. |
-| 20 October 2026 | After Rodrigo's review of *When strategy moves*, its opening says what its example shows: a mobile network sets a new strategy, to carry money as well as calls, on a note; the strategy fits in a sentence, and making it real, as M-Pesa, reaches every layer, down to the shop counter. The pilot line is gone, because it read as if no one had set a strategy, and the walk starts from the same idea: "As with M-Pesa, the sentence is the easy part." "Longer than the code" now says which: agreeing takes longer than changing the systems. A data contract is added to before it's versioned: the discount is a new column, amount due keeps its meaning, the contract stays at version 1, and a second version is the last resort, for removing or redefining a column. The music follows the master data films: chords under the opening story, then only at a few turns, moments on screen and wordless pauses, with no bed under the voice, no pulse and nothing that beats on a phone's speaker; the film's `tools/quiet.py` checks it. The lab *Walk it down* and the film's Pause and think question follow. RUL-023, about what billing does, says it's a business rule, and when it fails, a bill is listed for the billing team, not failed as a test, as *Rules with a home* now splits rules by kind; RUL-024 and RUL-025 stay data rules. |
+| 20 October 2026 | After Rodrigo's review of *When strategy moves*, its opening says what its example shows: a mobile network sets a new strategy, to carry money as well as calls, on a note; the strategy fits in a sentence, and making it real, as M-Pesa, reaches every layer, down to the shop counter. The pilot line is gone, because it read as if no one had set a strategy, and the walk starts from the same idea: "As with M-Pesa, the sentence is the easy part." "Longer than the code" now says which: agreeing takes longer than changing the systems. A data contract is added to before it's versioned: the discount is a new column, amount due keeps its meaning, the contract stays at version 1, and a second version is the last resort, for removing or redefining a column. The music follows the master data films: chords under the opening story, then only at a few turns, moments on screen and wordless pauses, with no bed under the voice, no pulse and nothing that beats on a phone's speaker; the film's `tools/quiet.py` checks it. The lab *Walk it down* and the film's Pause and think question follow. RUL-023, about what billing does, says it's a business rule, and when it fails, a bill is listed for the billing team, not failed as a test, as *Rules with a home* now splits rules by kind; RUL-024 and RUL-025 stay data rules. Rodrigo approved that version except at the agent's counter, where the banknotes lay across the hands and slid under an open palm. They now lie along the hands: held out on the customer's flat fingers, pinched under the agent's fingertips, and let go over the open palm, whose fingers close over them; the two hands meet at the notes, not on each other. |
 
 ## The brief
 

diff --git a/PLAYBOOK.md b/PLAYBOOK.md
@@ -63,6 +63,7 @@ Before story or pictures, the concept is settled. [`AGENTS.md`](AGENTS.md) gives
 - **Vary the content, not the style.** Six different, named data products per domain look like a real organisation. Six crops of one picture look like a template.
 - **Make things look as they behave.** Live data should visibly change. Raw data should look rough: glitched, duplicated and mistimed. Clean data should look crisp.
 - **Draw living things like living things.** Animals, plants, hands and the materials of the past (clay, paper, wood) made of circles, straight strokes and rectangles look rigid next to people drawn with care: viewers of *What's in a word* noticed at once. Give them tapering bezier outlines, overlapping forms, weight, a light side and a shadow side, and a little life from time: breath, wind, a gait. Keep data, systems and diagrams crisp; the contrast says which is which.
+- **Hold things the way hands do.** At the agent's counter in *When strategy moves*, banknotes lay across the hands, slid under an open palm and stuck out on both sides of it, and the author saw papers overlapping the hands. Lay what a hand holds along it, no wider than the hand. Put it on top of an open palm, and under the fingertips of a hand seen from its back, reaching out beyond them. When fingers close round it, draw them again over it, with a soft shadow below them. Let two hands meet at what they pass, not on each other, and hand it over at a moment when both hands are still, so it never jumps.
 - **Dress people for their time.** In scenes about nature, prehistory and the ancient world, people could be the first humans developing language: draw them as early humans, in hide or woven clothing, bare-armed, with dignity and without caveman clichés. A suit sleeve pointing across a grassland breaks the spell. Modern clothes belong to present-day scenes.
 - **Keep text clear of captions,** and check every scene against the caption area.
 - **Make it read on a phone.** A phone held sideways shows the 1920-pixel frame about 850 pixels wide, so text smaller than about 28 px in the frame is too small to read there. Use fewer, larger words; when a picture is dense (a canvas full of notes, a table), move the camera in on the part the narration is about, and treat the whole picture, seen from afar, as context. Text that is texture rather than something to read (a scrolling list of systems, a canvas's printed headings) is marked as decoration. *The map before the data* was drawn to the rule from the start. The films made before it now meet it through a shared layer, `films/from-words-to-data/shared/src/phone.js`, which raises every piece of text that isn't decoration to 28 px after the camera's zoom; each film's scenes then make room for the larger words. Every player also draws its captions larger as it shrinks (`films/inner-life-of-data/source/src/engine3.js`, `drawCaption`). *The Inner Life of Data* came last, in English and Spanish: Spanish words run longer, so check both languages.
@@ -204,6 +205,7 @@ What *From words to data*, seven films made together, added.
 - [ ] Style frames and a short voice test are approved.
 - [ ] `tools/pace.py`: about 120 to 135 words a minute (at most 140 in a chapter), the voice speaking at most 82% of any chapter, about three wordless endings in the whole film, no sentence followed by less than 0.5 s, and no stop of 2.5 s or more inside a chapter.
 - [ ] Stills are checked at every named moment, with nothing under the captions, every shape reading as what it is, and one person doing each action.
+- [ ] Hands hold what they hold as hands do: along the hand, on top of an open palm, under pinching fingertips and under fingers that close. Stills a few frames apart show it, and it never jumps from one hand to the other.
 - [ ] Text reads on a phone: about 28 px or more in the frame, or marked as decoration, with no words drawn over other words (`tools/legible.py --overlaps`).
 - [ ] One language on screen. A film made in English shows no words in another language: they read as forced. Show the glossary's synonyms, or nothing, and leave other languages to the captions.
 - [ ] Every "the code", "the system" or "the data" in the narration says which one.
